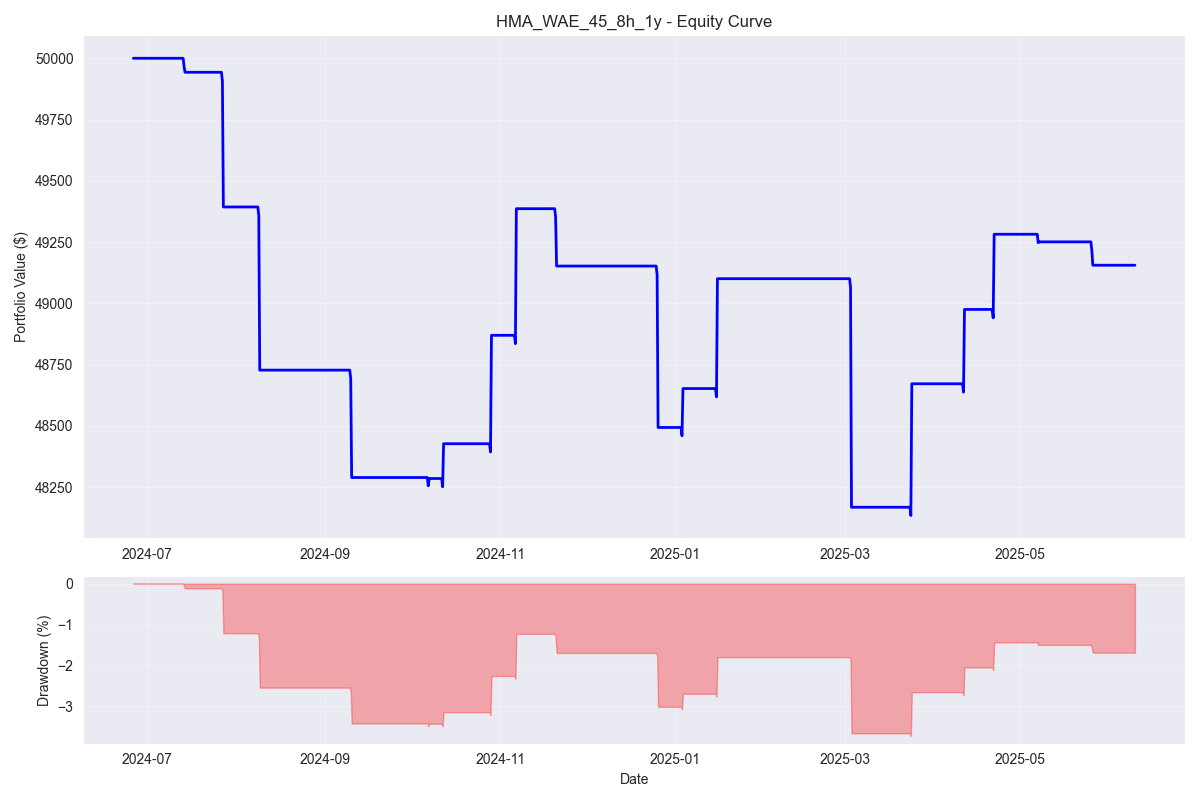
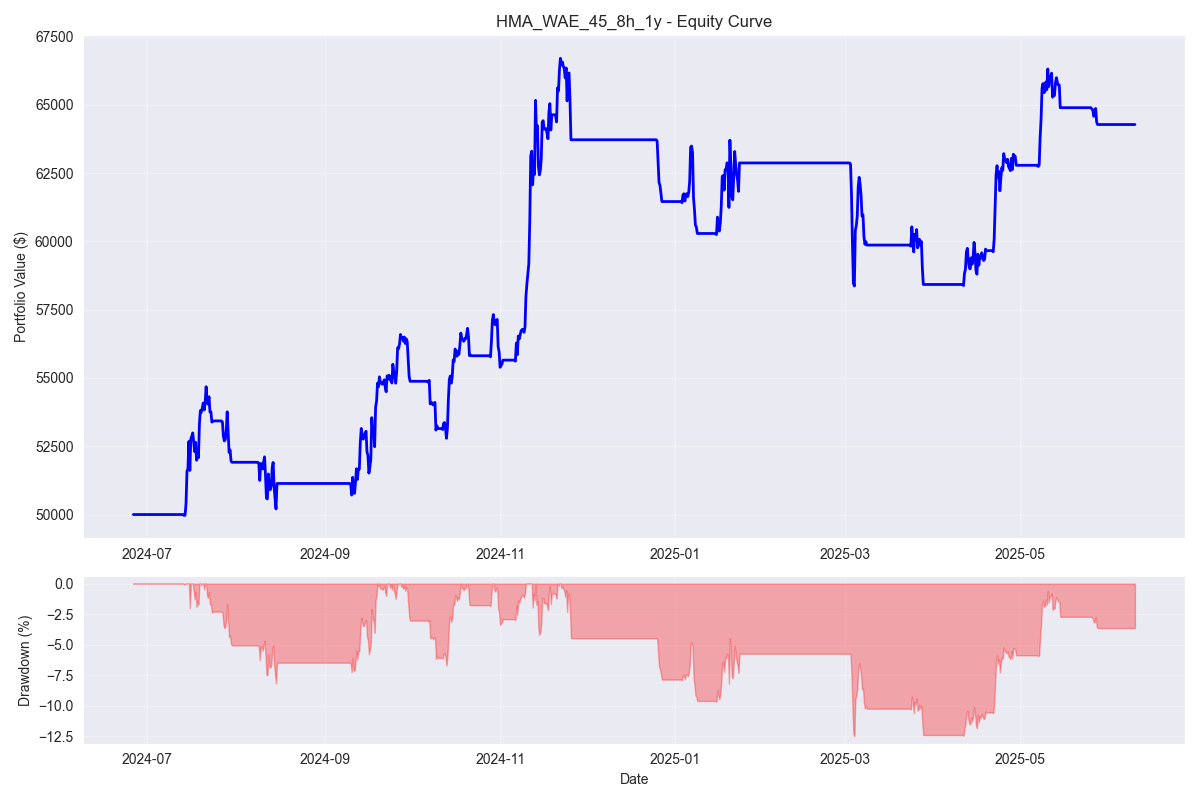
Trade timing working

diff --git a/src/strategy/strategies.py b/src/strategy/strategies.py
@@ -205,7 +205,7 @@ class HMAWAEStrategy(BaseStrategy):
     
     def generate_signals(self, data: pd.DataFrame) -> pd.Series:
         """Generate HMA-WAE hybrid signals matching TradingView Pine Script exactly"""
-        signals = pd.Series(0.0, index=data.index, dtype=float)
+        signals = pd.Series(np.nan, index=data.index, dtype=float)
         
         # Check if we have enough data for HMA calculation
         min_required_bars = self.hma_length + 10  # Add buffer
@@ -292,7 +292,7 @@ class HMAWAEStrategy(BaseStrategy):
         current_position = 0  # 0 = flat, 1 = long, -1 = short
         
         for i in range(len(data)):
-            current_signal = 0.0
+            # Don't initialize current_signal - only set when there's an actual signal
             
             # Entry conditions - ONLY when position is flat (position_size == 0)
             if current_position == 0:  # No position currently
@@ -300,34 +300,32 @@ class HMAWAEStrategy(BaseStrategy):
                 # Long entry condition
                 if (self.trade_direction in ["both", "long"] and 
                     wae_confirm_long.iloc[i]):
-                    current_signal = 1.0
+                    signals.iloc[i] = 1.0
                     current_position = 1
                     print(f"🟢 LONG ENTRY: {data.index[i]}")
                 
                 # Short entry condition  
                 elif (self.trade_direction in ["both", "short"] and 
                       wae_confirm_short.iloc[i]):
-                    current_signal = -1.0
+                    signals.iloc[i] = -1.0
                     current_position = -1
                     print(f"🔴 SHORT ENTRY: {data.index[i]}")
             
-            # Exit conditions - ONLY when we have a position
+            # Exit conditions - ONLY when we have a position AND opposite HMA flip occurs
             elif current_position != 0:
                 
-                # Long exit condition (HMA flip down)
+                # Long exit condition (HMA flips down - trend reversal)
                 if (current_position > 0 and hull_flip_down.iloc[i]):
-                    current_signal = 0.0
+                    signals.iloc[i] = 0.0  # Close long position
                     current_position = 0
                     print(f"🟠 LONG EXIT: {data.index[i]}")
                 
-                # Short exit condition (HMA flip up)
+                # Short exit condition (HMA flips up - trend reversal)
                 elif (current_position < 0 and hull_flip_up.iloc[i]):
-                    current_signal = 0.0
+                    signals.iloc[i] = 0.0  # Close short position
                     current_position = 0
                     print(f"🟠 SHORT EXIT: {data.index[i]}")
-            
-            # Set the signal for this bar
-            signals.iloc[i] = current_signal
+                # If we have a position but no exit condition, leave signal as 0.0 (initialized default)
         
         # Count and log final signals
         final_long_entries = (signals == 1.0).sum()

diff --git a/src/backtesting/engine.py b/src/backtesting/engine.py
@@ -108,8 +108,11 @@ class Backtester:
             # Store timestamp
             self.timestamps.append(timestamp)
             
-            # Process signal - FIXED LOGIC
-            if signal == 1.0 and self.position == 0:
+            # Process signal - FIXED LOGIC (skip NaN values)
+            if pd.isna(signal):
+                # Skip NaN signals (hold/no action)
+                pass
+            elif signal == 1.0 and self.position == 0:
                 # LONG entry signal and we're flat
                 self._open_position(timestamp, current_price, 1)
                 logger.info(f"🟢 OPENED LONG: {timestamp} at ${current_price:.2f}")
@@ -118,6 +121,18 @@ class Backtester:
                 # SHORT entry signal and we're flat
                 self._open_position(timestamp, current_price, -1)
                 logger.info(f"🔴 OPENED SHORT: {timestamp} at ${current_price:.2f}")
+                
+            elif signal == 1.0 and self.position == -1:
+                # Close short and open long
+                self._close_position(timestamp, current_price)
+                self._open_position(timestamp, current_price, 1)
+                logger.info(f"🔄 FLIPPED TO LONG: {timestamp} at ${current_price:.2f}")
+                
+            elif signal == -1.0 and self.position == 1:
+                # Close long and open short  
+                self._close_position(timestamp, current_price)
+                self._open_position(timestamp, current_price, -1)
+                logger.info(f"🔄 FLIPPED TO SHORT: {timestamp} at ${current_price:.2f}")
                 
             elif signal == 0.0 and self.position != 0:
                 # Exit signal and we have a position
